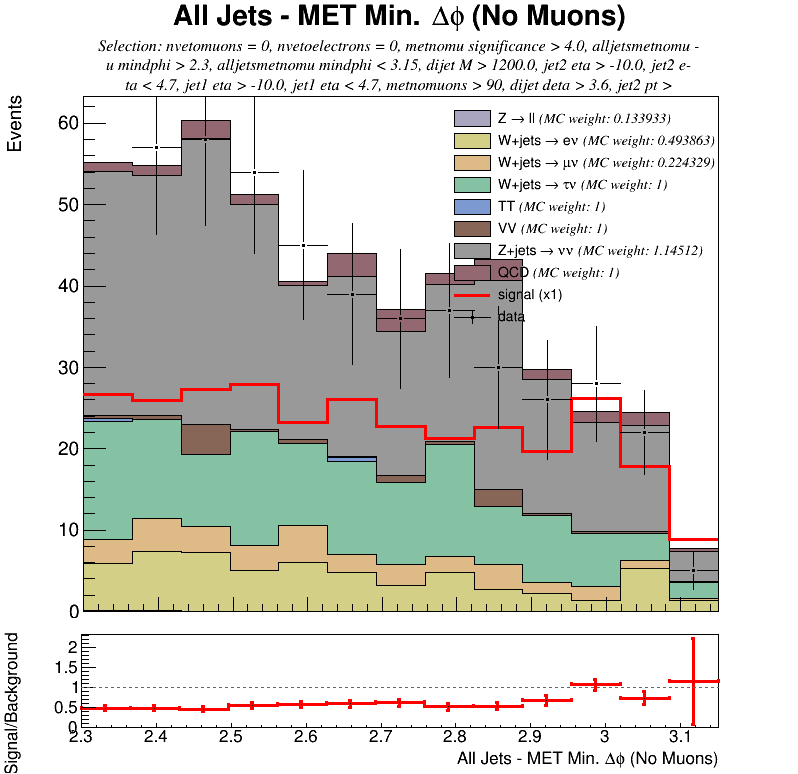
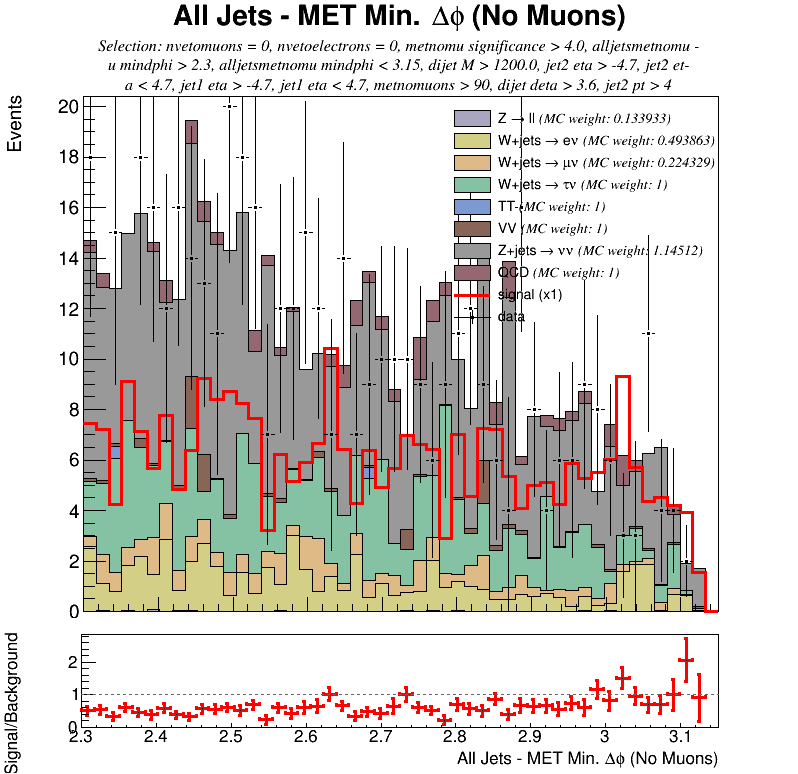
fixed bins

Changed region(s): [[0.0602, 0.062, 0.9023, 0.8062], [0.0602, 0.8062, 0.9023, 0.9302]]

diff --git a/src/main.cpp b/src/main.cpp
@@ -65,14 +65,15 @@ void produce_graphs(bool with_cut, const char* job_ptr) {
    std::vector<const char*> single_file_vector (train_file_arr,train_file_arr  + sizeof(train_file_arr)/sizeof(const char*));
    MVAAnalysis::get_estimators(single_file_vector);*/
 //}
-//HistoPlot::draw_plot(parked_vars[7], bg_chains,signal_chain, data_chain, true, &parked_vars, true, "parked_for_slides.png");
+HistoPlot::draw_plot(parked_vars[7], bg_chains,signal_chain, data_chain, true, &parked_vars, true, "parked_for_slides.png");
 //cout<<"plotted graph\n";
+//
 /*std::vector<double> mc_weights_vector = HistoPlot::mc_weights(data_chain, bg_chains, cut_vars[0], true, &cut_vars);
 cout<<"got regular mc weights\n";
-*/
+
 std::vector<double> parked_mc_weights_vector = HistoPlot::mc_weights(data_chain, bg_chains, parked_vars[0], true, &parked_vars,"",6,false,true);
 cout<<"got park mc weights\n";
-/*
+
 double integral;double total=0;
 cout<<"===================Gordon and Monari's preselection==============\n";
 for(int i=0; i<8;i++){
@@ -85,7 +86,7 @@ for(int i=0; i<8;i++){
 
   TH1F* signal_histo = HistoPlot::build_1d_histo(signal_chain, cut_vars[0], with_cut, false, "goff", &cut_vars, "");
  cout << "total signal = "<< HistoPlot::get_histo_integral(signal_histo, with_cut, vars[0]) << endl;// taking into account test/train data split
-*/
+
 cout<<"===================CMS parked preselection====================\n";
 double total,integral;
 for(int i=0; i<8;i++){
@@ -100,8 +101,8 @@ for(int i=0; i<8;i++){
 
 // cout << "total signal = "<< HistoPlot::get_histo_integral(parked_signal_histo, with_cut, parked_vars[7]) << endl;// taking into account test/train data s 
 
-DataCard::create_datacard(0, data_chain, signal_chain, bg_chains, parked_vars[7], with_cut, &parked_vars, "parked_selection.png");
-
+//DataCard::create_datacard(0, data_chain, signal_chain, bg_chains, parked_vars[7], with_cut, &parked_vars, "parked_selection.png");
+*/
 }
 
 int main(int argc, char** argv) {

diff --git a/src/super_vars.cpp b/src/super_vars.cpp
@@ -48,7 +48,7 @@ SuperVars::SuperVars()
 
 
   parked_alljetsmetnomu_mindphi = new Variable("alljetsmetnomu_mindphi","All Jets - MET Min. #Delta#phi (No Muons)",
-                                        "0.0","3.15","2.3","","50","1", "");
+                                        "2.3","3.15","2.3","","50","1", "");
   parked_metnomu_significance   = new Variable("metnomu_significance","MET Significance (No Muons)","3.0","","4.0","","50","1", "");
 
 
